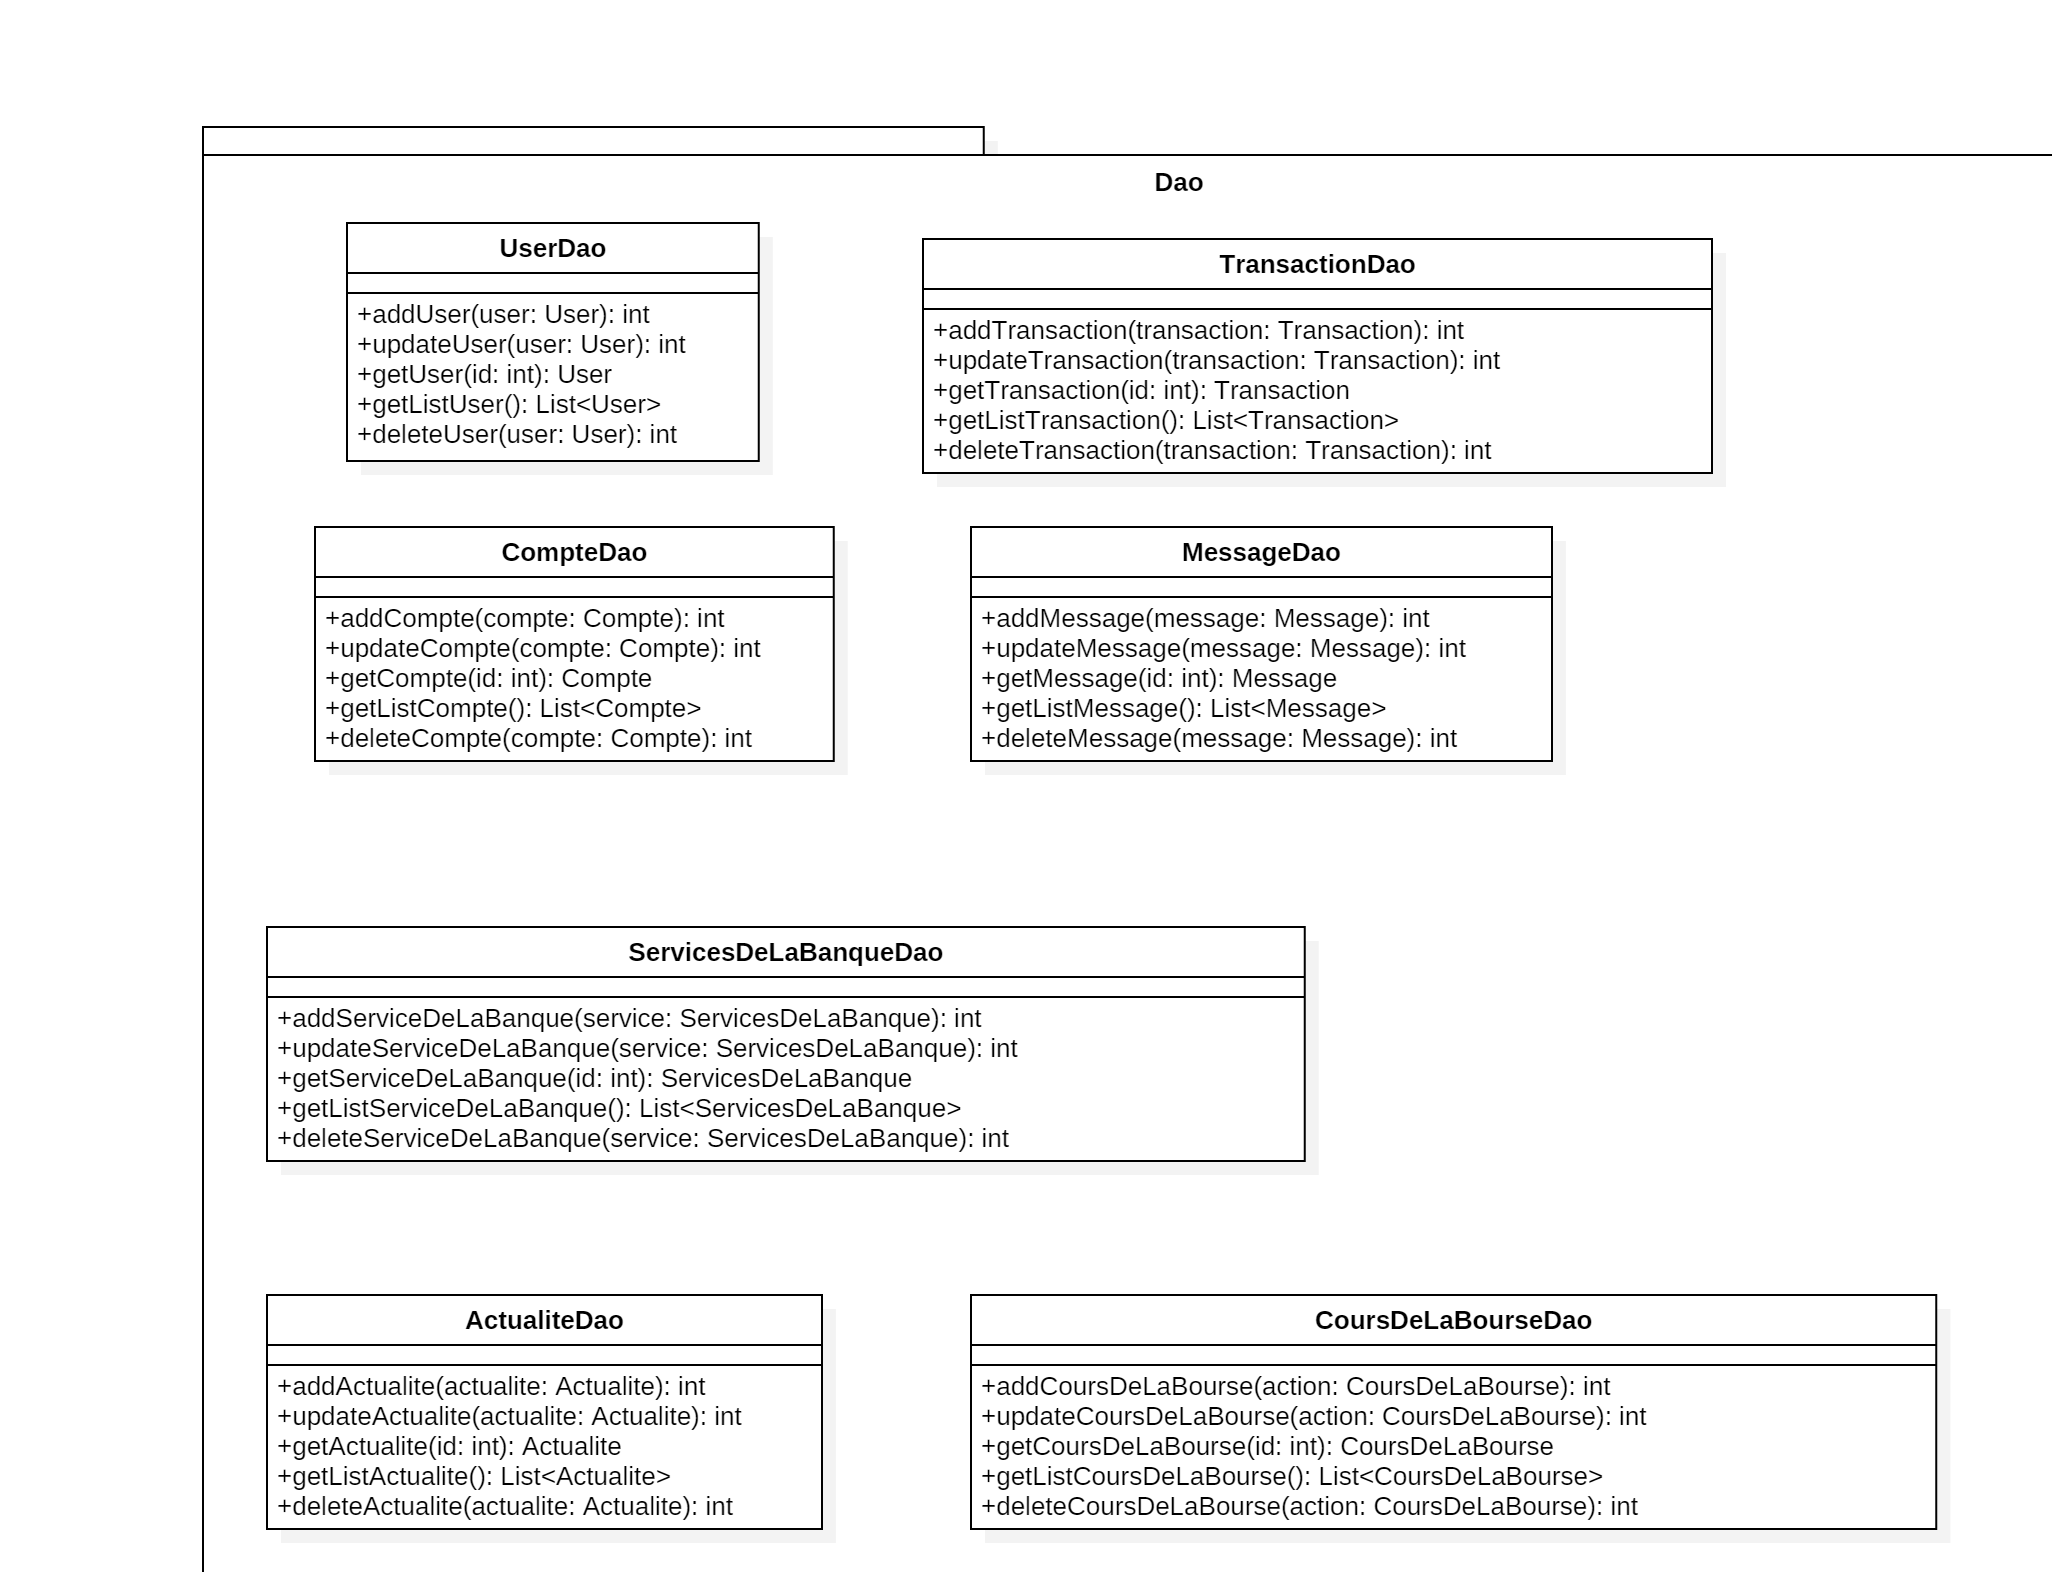
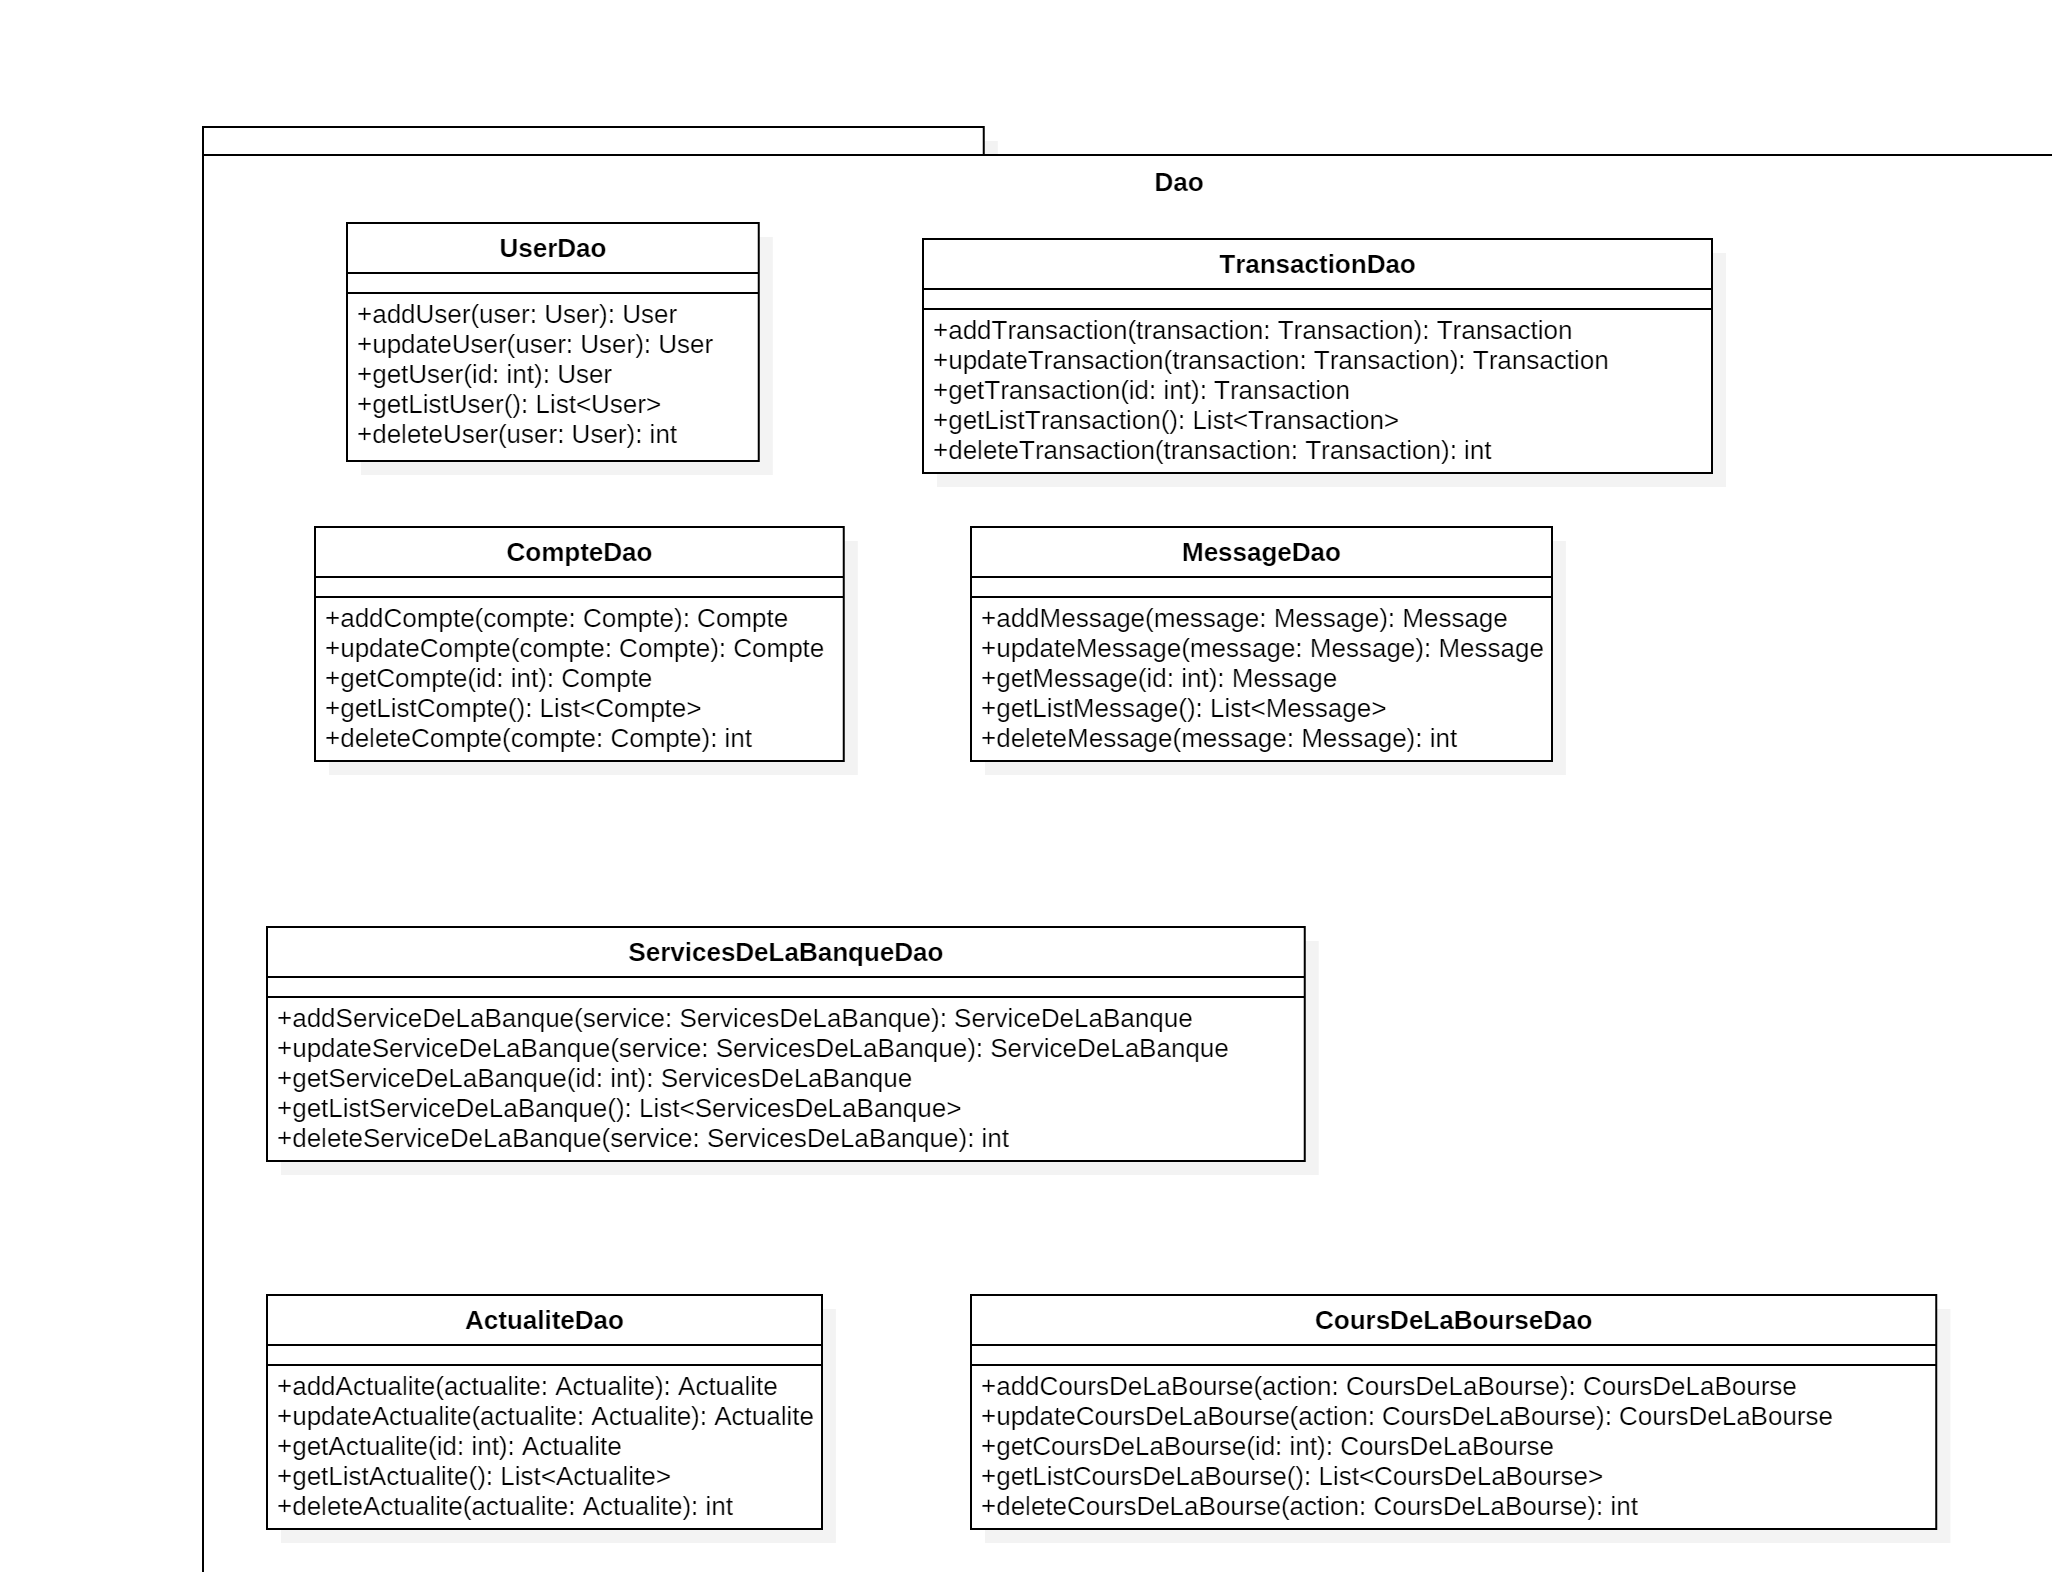
update the conception of Class, CLass Dao and BDD

diff --git a/Class java/Diagram de class dao/Diagram de class dao/Dao/ServicesDeLaBanqueDao.java b/Class java/Diagram de class dao/Diagram de class dao/Dao/ServicesDeLaBanqueDao.java
@@ -17,18 +17,18 @@ public class ServicesDeLaBanqueDao {
      * @param service 
      * @return
      */
-    public int addServiceDeLaBanque(ServicesDeLaBanque service) {
+    public ServiceDeLaBanque addServiceDeLaBanque(ServicesDeLaBanque service) {
         // TODO implement here
-        return 0;
+        return null;
     }
 
     /**
      * @param service 
      * @return
      */
-    public int updateServiceDeLaBanque(ServicesDeLaBanque service) {
+    public ServiceDeLaBanque updateServiceDeLaBanque(ServicesDeLaBanque service) {
         // TODO implement here
-        return 0;
+        return null;
     }
 
     /**

diff --git a/Class java/Diagram de class dao/Diagram de class dao/Dao/CoursDeLaBourseDao.java b/Class java/Diagram de class dao/Diagram de class dao/Dao/CoursDeLaBourseDao.java
@@ -17,18 +17,18 @@ public class CoursDeLaBourseDao {
      * @param action 
      * @return
      */
-    public int addCoursDeLaBourse(CoursDeLaBourse action) {
+    public CoursDeLaBourse addCoursDeLaBourse(CoursDeLaBourse action) {
         // TODO implement here
-        return 0;
+        return null;
     }
 
     /**
      * @param action 
      * @return
      */
-    public int updateCoursDeLaBourse(CoursDeLaBourse action) {
+    public CoursDeLaBourse updateCoursDeLaBourse(CoursDeLaBourse action) {
         // TODO implement here
-        return 0;
+        return null;
     }
 
     /**

diff --git a/Class java/Diagram de class dao/Diagram de class dao/Dao/TransactionDao.java b/Class java/Diagram de class dao/Diagram de class dao/Dao/TransactionDao.java
@@ -17,18 +17,18 @@ public class TransactionDao {
      * @param transaction 
      * @return
      */
-    public int addTransaction(Transaction transaction) {
+    public Transaction addTransaction(Transaction transaction) {
         // TODO implement here
-        return 0;
+        return null;
     }
 
     /**
      * @param transaction 
      * @return
      */
-    public int updateTransaction(Transaction transaction) {
+    public Transaction updateTransaction(Transaction transaction) {
         // TODO implement here
-        return 0;
+        return null;
     }
 
     /**

diff --git a/Class java/Diagram de class dao/Diagram de class dao/Dao/ActualiteDao.java b/Class java/Diagram de class dao/Diagram de class dao/Dao/ActualiteDao.java
@@ -17,18 +17,18 @@ public class ActualiteDao {
      * @param actualite 
      * @return
      */
-    public int addActualite(Actualite actualite) {
+    public Actualite addActualite(Actualite actualite) {
         // TODO implement here
-        return 0;
+        return null;
     }
 
     /**
      * @param actualite 
      * @return
      */
-    public int updateActualite(Actualite actualite) {
+    public Actualite updateActualite(Actualite actualite) {
         // TODO implement here
-        return 0;
+        return null;
     }
 
     /**

diff --git a/Class java/Diagram de class dao/Diagram de class dao/Dao/MessageDao.java b/Class java/Diagram de class dao/Diagram de class dao/Dao/MessageDao.java
@@ -17,18 +17,18 @@ public class MessageDao {
      * @param message 
      * @return
      */
-    public int addMessage(Message message) {
+    public Message addMessage(Message message) {
         // TODO implement here
-        return 0;
+        return null;
     }
 
     /**
      * @param message 
      * @return
      */
-    public int updateMessage(Message message) {
+    public Message updateMessage(Message message) {
         // TODO implement here
-        return 0;
+        return null;
     }
 
     /**

diff --git a/Class java/Diagram de class dao/Diagram de class dao/Dao/CompteDao.java b/Class java/Diagram de class dao/Diagram de class dao/Dao/CompteDao.java
@@ -17,18 +17,18 @@ public class CompteDao {
      * @param compte 
      * @return
      */
-    public int addCompte(Compte compte) {
+    public Compte addCompte(Compte compte) {
         // TODO implement here
-        return 0;
+        return null;
     }
 
     /**
      * @param compte 
      * @return
      */
-    public int updateCompte(Compte compte) {
+    public Compte updateCompte(Compte compte) {
         // TODO implement here
-        return 0;
+        return null;
     }
 
     /**

diff --git a/Class java/Diagram de class dao/Diagram de class dao/Dao/UserDao.java b/Class java/Diagram de class dao/Diagram de class dao/Dao/UserDao.java
@@ -17,18 +17,18 @@ public class UserDao {
      * @param user 
      * @return
      */
-    public int addUser(User user) {
+    public User addUser(User user) {
         // TODO implement here
-        return 0;
+        return null;
     }
 
     /**
      * @param user 
      * @return
      */
-    public int updateUser(User user) {
+    public User updateUser(User user) {
         // TODO implement here
-        return 0;
+        return null;
     }
 
     /**

diff --git a/Class java/Diagram de class/Diagram de class/Class/Message.java b/Class java/Diagram de class/Diagram de class/Class/Message.java
@@ -31,7 +31,7 @@ public class Message {
     /**
      * 
      */
-    private int numphone;
+    private String numphone;
 
     /**
      * 
@@ -51,6 +51,6 @@ public class Message {
     /**
      * 
      */
-    private Date date;
+    private Timestamp date;
 
 }

diff --git a/Class java/Diagram de class/Diagram de class/Class/User.java b/Class java/Diagram de class/Diagram de class/Class/User.java
@@ -46,7 +46,7 @@ public class User {
     /**
      * 
      */
-    private int telephone;
+    private String telephone;
 
     /**
      * 
